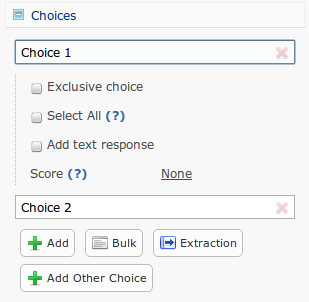
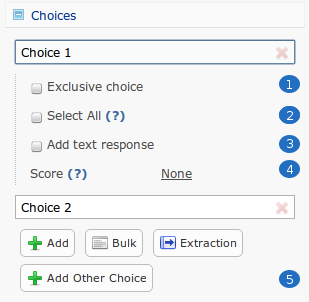
more edition question options

Changed region(s): [[0.9029, 0.2384, 0.9903, 0.4172], [0.9029, 0.447, 0.9903, 0.596], [0.9029, 0.894, 0.9903, 0.9536]]

diff --git a/chapters/Editor/questionoptions.rst b/chapters/Editor/questionoptions.rst
@@ -202,8 +202,9 @@ Choices and Variables are the answers themselves to close and open-ended questio
 	* - 2. Variables
 	  - Adding additional variables will increase the X-axis. Varaible 1 and Variable 2, shown here, will appear on the Y-axis (along the side of hte question). Variables are commonly used as a means conveying a certain product, ie., Apple, McDonalds, Telus, etc.
 
-Certain question types have specific options within the choices/variables that allow for a deeper integration of your desired goal and effect. For instance,
+Certain question types have specific options within the choices/variables that allow for a deeper integration of your desired goal and effect.
 
+**Checkbox Question Type Choices**
 
 .. figure:: ../../resources/editor/cv_checkbox.png
 	:align: center
@@ -213,6 +214,25 @@ Certain question types have specific options within the choices/variables that a
 
 	*Figure 9.1* Choices for a Checkbox
 
+.. list-table:: 
+	:widths: 30 70
+	:header-rows: 1
+
+	* - Option
+	  - Description
+	* - 1. Exclusive Choice
+	  - Enabling this option will force the choice to become the only selected option. When the respondent selects the choice, any previously selected choices will be automatically deselected in favour of this choice. By default, this option is disabled.
+	* - 2. Select All
+	  - Enabling this option will automatically select all choices in the question. By default, this option is disabled.
+	* - 3. Add Text Response
+	  - Enabling this option will put a text response beside the choice. The text response can have Validation applied. However, the width cannot be adjusted.
+	* - 4. Score
+	  - A score is what determines the weight for a Choice/Variable that can later be used during the Analytics phase. By default, this value is the value of the choices position, eg., Choice 1 is in the first slot, therefore the Score will be "1". To learn more about "Scores", refer to the "Scores" section of the manual.
+	* - 5. Add Other Choice
+	  - Clicking this button will create a choice that is, "Other, please specify" (which can be customized) along with a text response box. This is comparable to adding a text response to a choice.
+
+**Multiple Choice Question Type Choices**
+
 .. figure:: ../../resources/editor/cv_multiplechoice.png
 	:align: center
 	:scale: 70%
@@ -220,6 +240,23 @@ Certain question types have specific options within the choices/variables that a
 	:class: screenshot
 
 	*Figure 9.1* Choices for a Mulitple Choice 
+
+.. list-table:: 
+	:widths: 30 70
+	:header-rows: 1
+
+	* - Option
+	  - Description
+	* - 1. Add Text Response
+	  - Enabling this option will put a text response beside the choice. The text response can have Validation applied. However, the width cannot be adjusted.
+	* - 2. Score
+	  - A score is what determines the weight for a Choice/Variable that can later be used during the Analytics phase. By default, this value is the value of the choices position, eg., Choice 1 is in the first slot, therefore the Score will be "1". To learn more about "Scores", refer to the "Scores" section of the manual.
+	* - 3. Branch To
+	  - If the user selects the Choice, then you can notify the software to branch the respondent down a different path. By default, all choices will lead to the next page.
+	* - 4. Add Other Choice
+	  - Clicking this button will create a choice that is, "Other, please specify" (which can be customized) along with a text response box. This is comparable to adding a text response to a choice.
+
+**Dropdown Question Type Choices**
 
 .. figure:: ../../resources/editor/cv_dropdown.png
 	:align: center
@@ -229,6 +266,19 @@ Certain question types have specific options within the choices/variables that a
 
 	*Figure 9.1* Choices for a Dropdown
 
+.. list-table:: 
+	:widths: 30 70
+	:header-rows: 1
+
+	* - Option
+	  - Description
+	* - 1. Score
+	  - A score is what determines the weight for a Choice/Variable that can later be used during the Analytics phase. By default, this value is the value of the choices position, eg., Choice 1 is in the first slot, therefore the Score will be "1". To learn more about "Scores", refer to the "Scores" section of the manual.
+	* - 2. Branch to
+	  - If the user selects the Choice, then you can notify the software to branch the respondent down a different path. By default, all choices will lead to the next page.
+
+**Text Response Grid Question Type Choices**
+
 .. figure:: ../../resources/editor/cv_textresponsegrid.png
 	:align: center
 	:scale: 70%
@@ -236,6 +286,23 @@ Certain question types have specific options within the choices/variables that a
 	:class: screenshot
 
 	*Figure 9.1* Variables for a Text Response Grid
+
+.. list-table:: 
+	:widths: 30 70
+	:header-rows: 1
+
+	* - Option
+	  - Description
+	* - 1. Optional
+	  - Detemrins whether the question is required in order to proceed through the survey, or not. By default, this option is enabled.
+	* - 2. Multiline
+	  - Commonly referred to as the "width" of a text area. If a large amount of text is required, then altering this value may be adventageous.. By default, the value is set to 20 columns.
+	* - 3. Validation
+	  - Determins the type of text that can be entered, eg., Currency will only allow "$19.99". To learn more about "Validation", refer to the "Validation" section of the manual.
+	* - 4. Initial Value
+	  - By default, the initial value is blank.
+
+**Dropdown Grid Question Type Choices and Variables**
 
 .. figure:: ../../resources/editor/cv_dropdowngrid.png
 	:align: center
@@ -245,6 +312,19 @@ Certain question types have specific options within the choices/variables that a
 
 	*Figure 9.1* Choices and Variables for a Dropdown Grid
 
+.. list-table:: 
+	:widths: 20 80
+	:header-rows: 1
+
+	* - Option
+	  - Description
+	* - 1. Score
+	  - A score is what determines the weight for a Choice/Variable that can later be used during the Analytics phase. By default, this value is the value of the choices position, eg., Choice 1 is in the first slot, therefore the Score will be "1". To learn more about "Scores", refer to the "Scores" section of the manual.
+	* - 2. Optional
+	  - Detemrins whether the question is required in order to proceed through the survey, or not. By default, this option is enabled.
+
+**Checkbox Grid Question Type Choices and Variables**
+
 .. figure:: ../../resources/editor/cv_checkboxgrid.png
 	:align: center
 	:scale: 70%
@@ -252,6 +332,19 @@ Certain question types have specific options within the choices/variables that a
 	:class: screenshot
 
 	*Figure 9.1* Choices and Variables for a Checkbox Grid
+
+.. list-table:: 
+	:widths: 20 80
+	:header-rows: 1
+
+	* - Option
+	  - Description
+	* - 1. Score
+	  - A score is what determines the weight for a Choice/Variable that can later be used during the Analytics phase. By default, this value is the value of the choices position, eg., Choice 1 is in the first slot, therefore the Score will be "1". To learn more about "Scores", refer to the "Scores" section of the manual.
+	* - 2. Optional
+	  - Detemrins whether the question is required in order to proceed through the survey, or not. By default, this option is enabled.
+
+**N-atrix Question Type Variables**
 
 .. figure:: ../../resources/editor/cv_natrix.png
 	:align: center
@@ -261,6 +354,21 @@ Certain question types have specific options within the choices/variables that a
 
 	*Figure 9.1* Choices and Variables for a N-atrix
 
+.. list-table:: 
+	:widths: 20 80
+	:header-rows: 1
+
+	* - Option
+	  - Description
+	* - Switch to type
+	  - Since a N-atrix question type allows for it to contain more than 1 question type, you can alter which question type is available as a Variable. Available question types are
+		    1. Dropdown
+		    2. Text Response
+		    3. Checkbox
+		    4. Radio Buttons
+
+**3D Matrix Question Type Choices**
+
 .. figure:: ../../resources/editor/cv_3dmatrix.png
 	:align: center
 	:scale: 70%
@@ -268,6 +376,25 @@ Certain question types have specific options within the choices/variables that a
 	:class: screenshot
 
 	*Figure 9.1* Choices and Variables for a 3D Matrix
+
+.. list-table:: 
+	:widths: 20 80
+	:header-rows: 1
+
+	* - Option
+	  - Description
+	* - Switch to type
+	  - Since a N-atrix question type allows for it to contain more than 1 question type, you can alter which question type is available as a Variable. Available question types are
+		    1. Dropdown
+		    2. Text Response
+		    3. Checkbox
+		    4. Radio Buttons
+	* - Dynamic Options
+	  - When these are enabled for a specific choice, if the respondent clicks it, then the row can be disabled. By default, these choices are disabled.
+	* - Optional
+	  - Detemrins whether the question is required in order to proceed through the survey, or not. By default, this option is enabled.
+
+**Drilldown Grid Question Type Choices**
 
 .. figure:: ../../resources/editor/cv_drilldown.png
 	:align: center
@@ -277,6 +404,19 @@ Certain question types have specific options within the choices/variables that a
 
 	*Figure 9.1* Choices and Variables for a Drilldown Grid
 
+.. list-table:: 
+	:widths: 20 80
+	:header-rows: 1
+
+	* - Option
+	  - Description
+	* - Score
+	  - A score is what determines the weight for a Choice/Variable that can later be used during the Analytics phase. By default, this value is the value of the choices position, eg., Choice 1 is in the first slot, therefore the Score will be "1". To learn more about "Scores", refer to the "Scores" section of the manual.
+	* - Branch to
+	  - If the user selects the Choice, then you can notify the software to branch the respondent down a different path. By default, all choices will lead to the next page.
+
+**Semantic Differential Question Type Choices and Variables**
+
 .. figure:: ../../resources/editor/cv_semantic.png
 	:align: center
 	:scale: 70%
@@ -285,6 +425,15 @@ Certain question types have specific options within the choices/variables that a
 
 	*Figure 9.1* Choices and Variables for a Semantic
 
+.. list-table:: 
+	:widths: 20 80
+	:header-rows: 1
+
+	* - Option
+	  - Description
+	* - Optional
+	  - Detemrins whether the question is required in order to proceed through the survey, or not. By default, this option is enabled.
+
 .. warning::
 
 	Removing a Choice/Variable on a Live survey WILL delete the information associated with that option. Do not delete any information on a Live survey without first consulting with on one of our experienced Technical Support Representatives. 
@@ -292,7 +441,10 @@ Certain question types have specific options within the choices/variables that a
 Add Other Choice
 ^^^^^^^^^^^^^^^^
 
+Clicking this button will create a choice that is, "Other, please specify" (which can be customized) along with a text response box. This is comparable to adding a text response to a choice. Add Other Choice is only available to certain question types, such as:
 
+	1. Checkbox
+	2. Multiple Choice 
 
 Scores
 ^^^^^^
